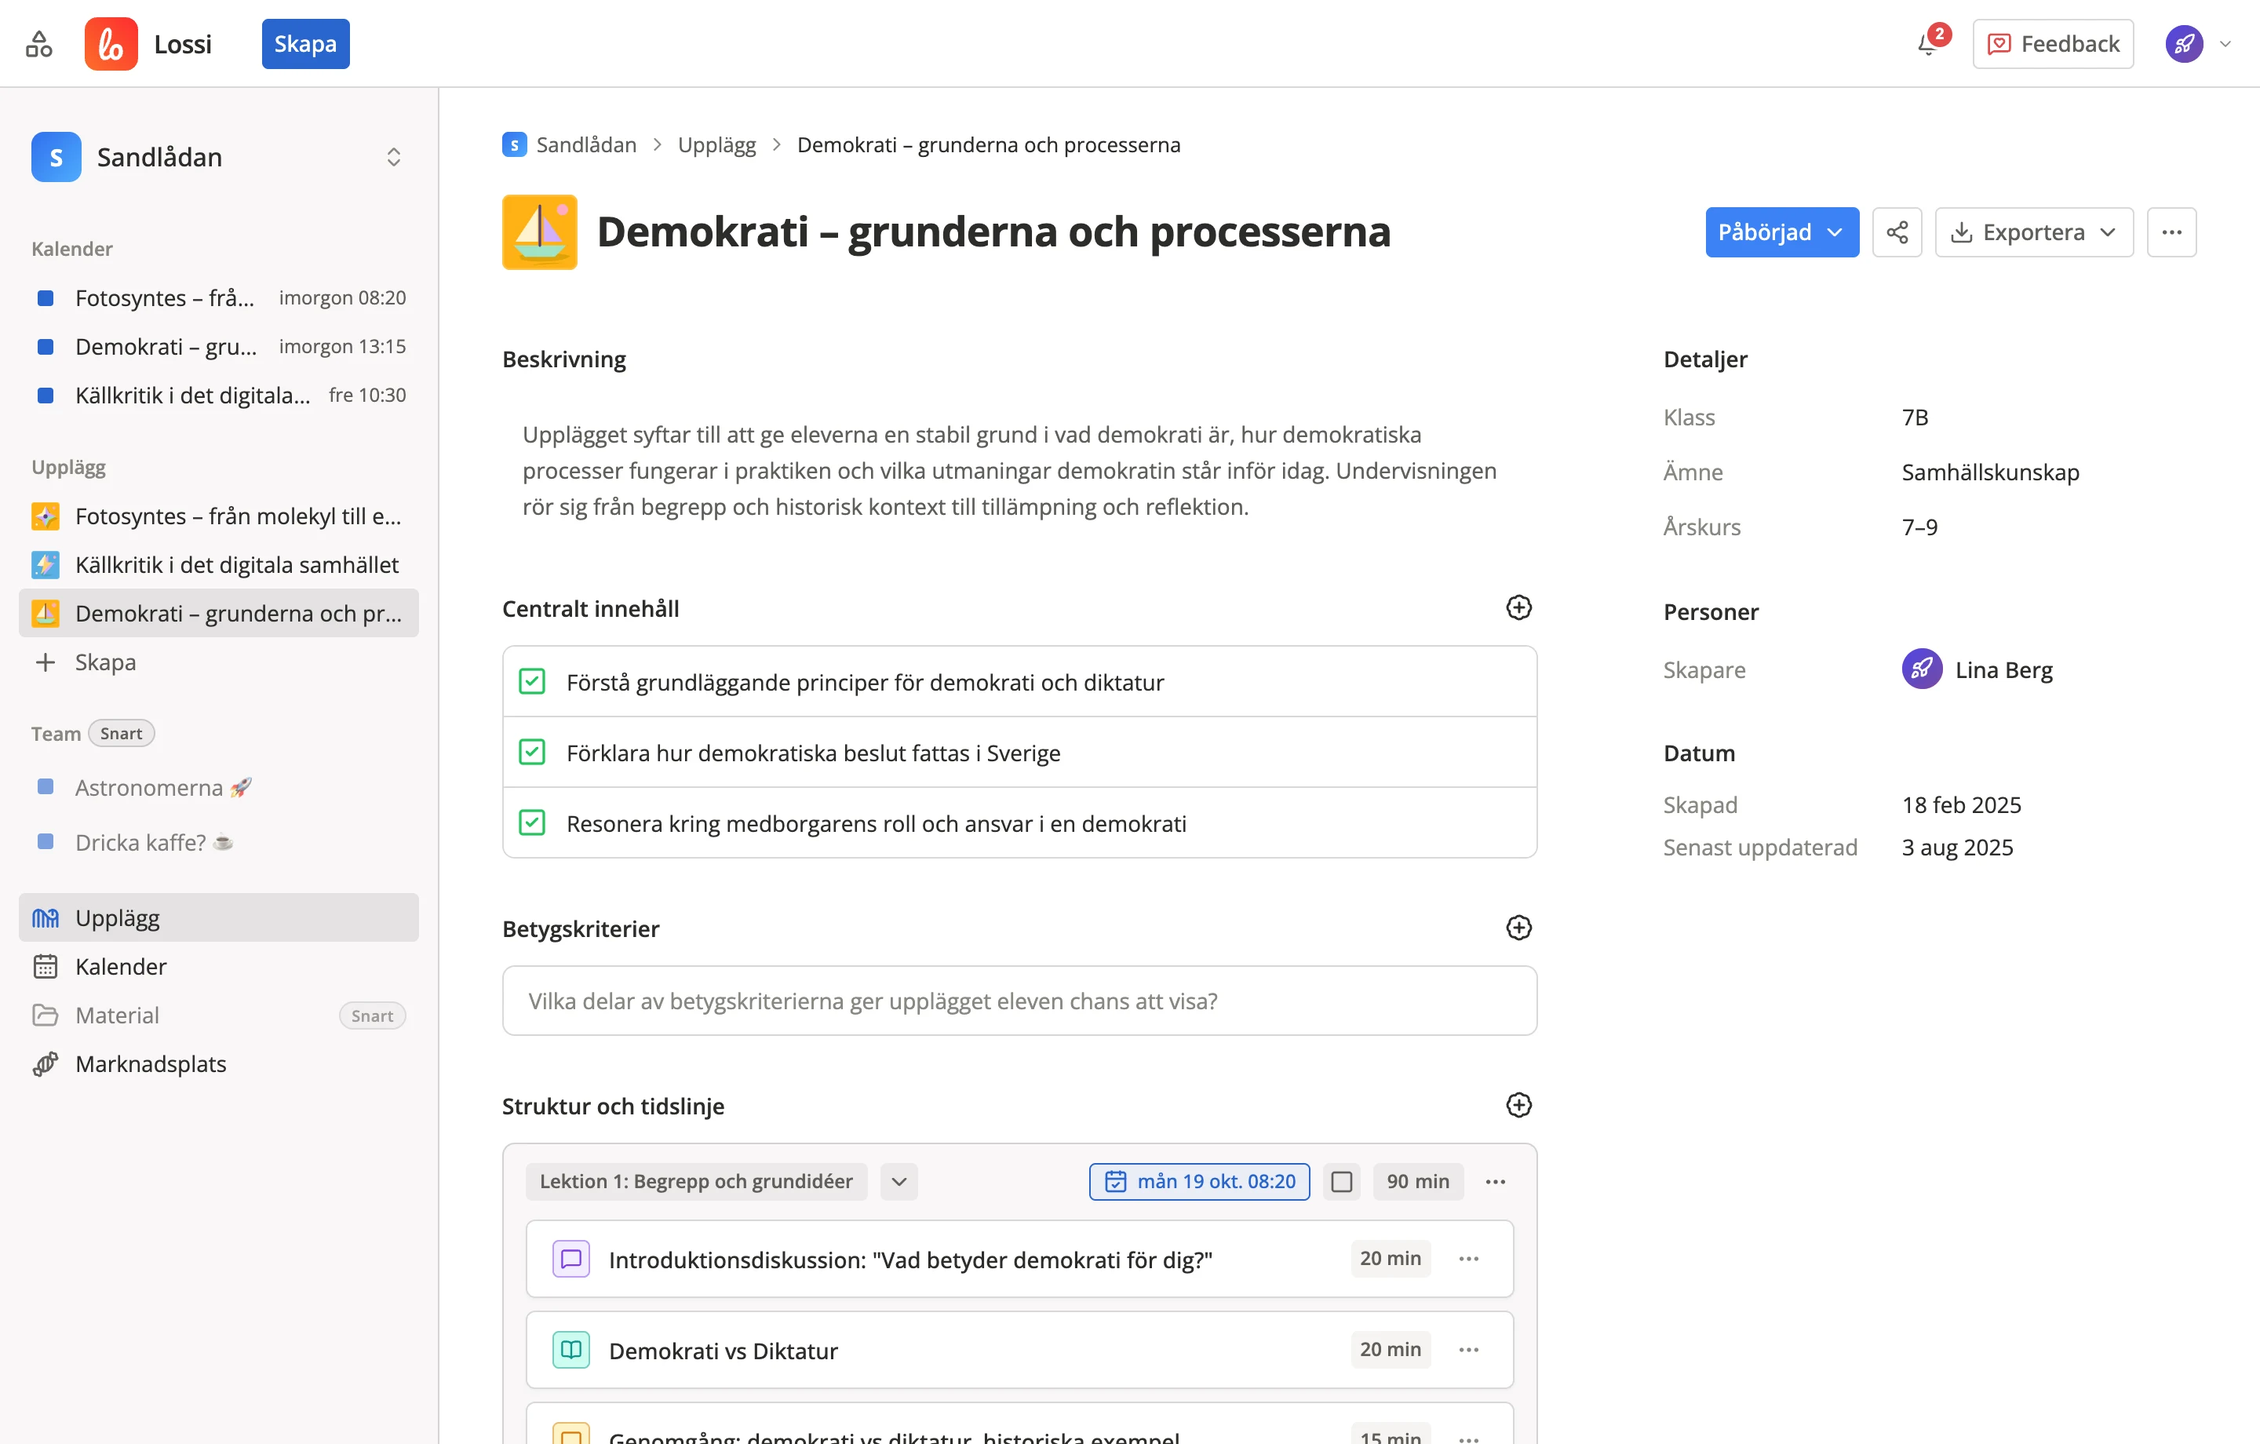
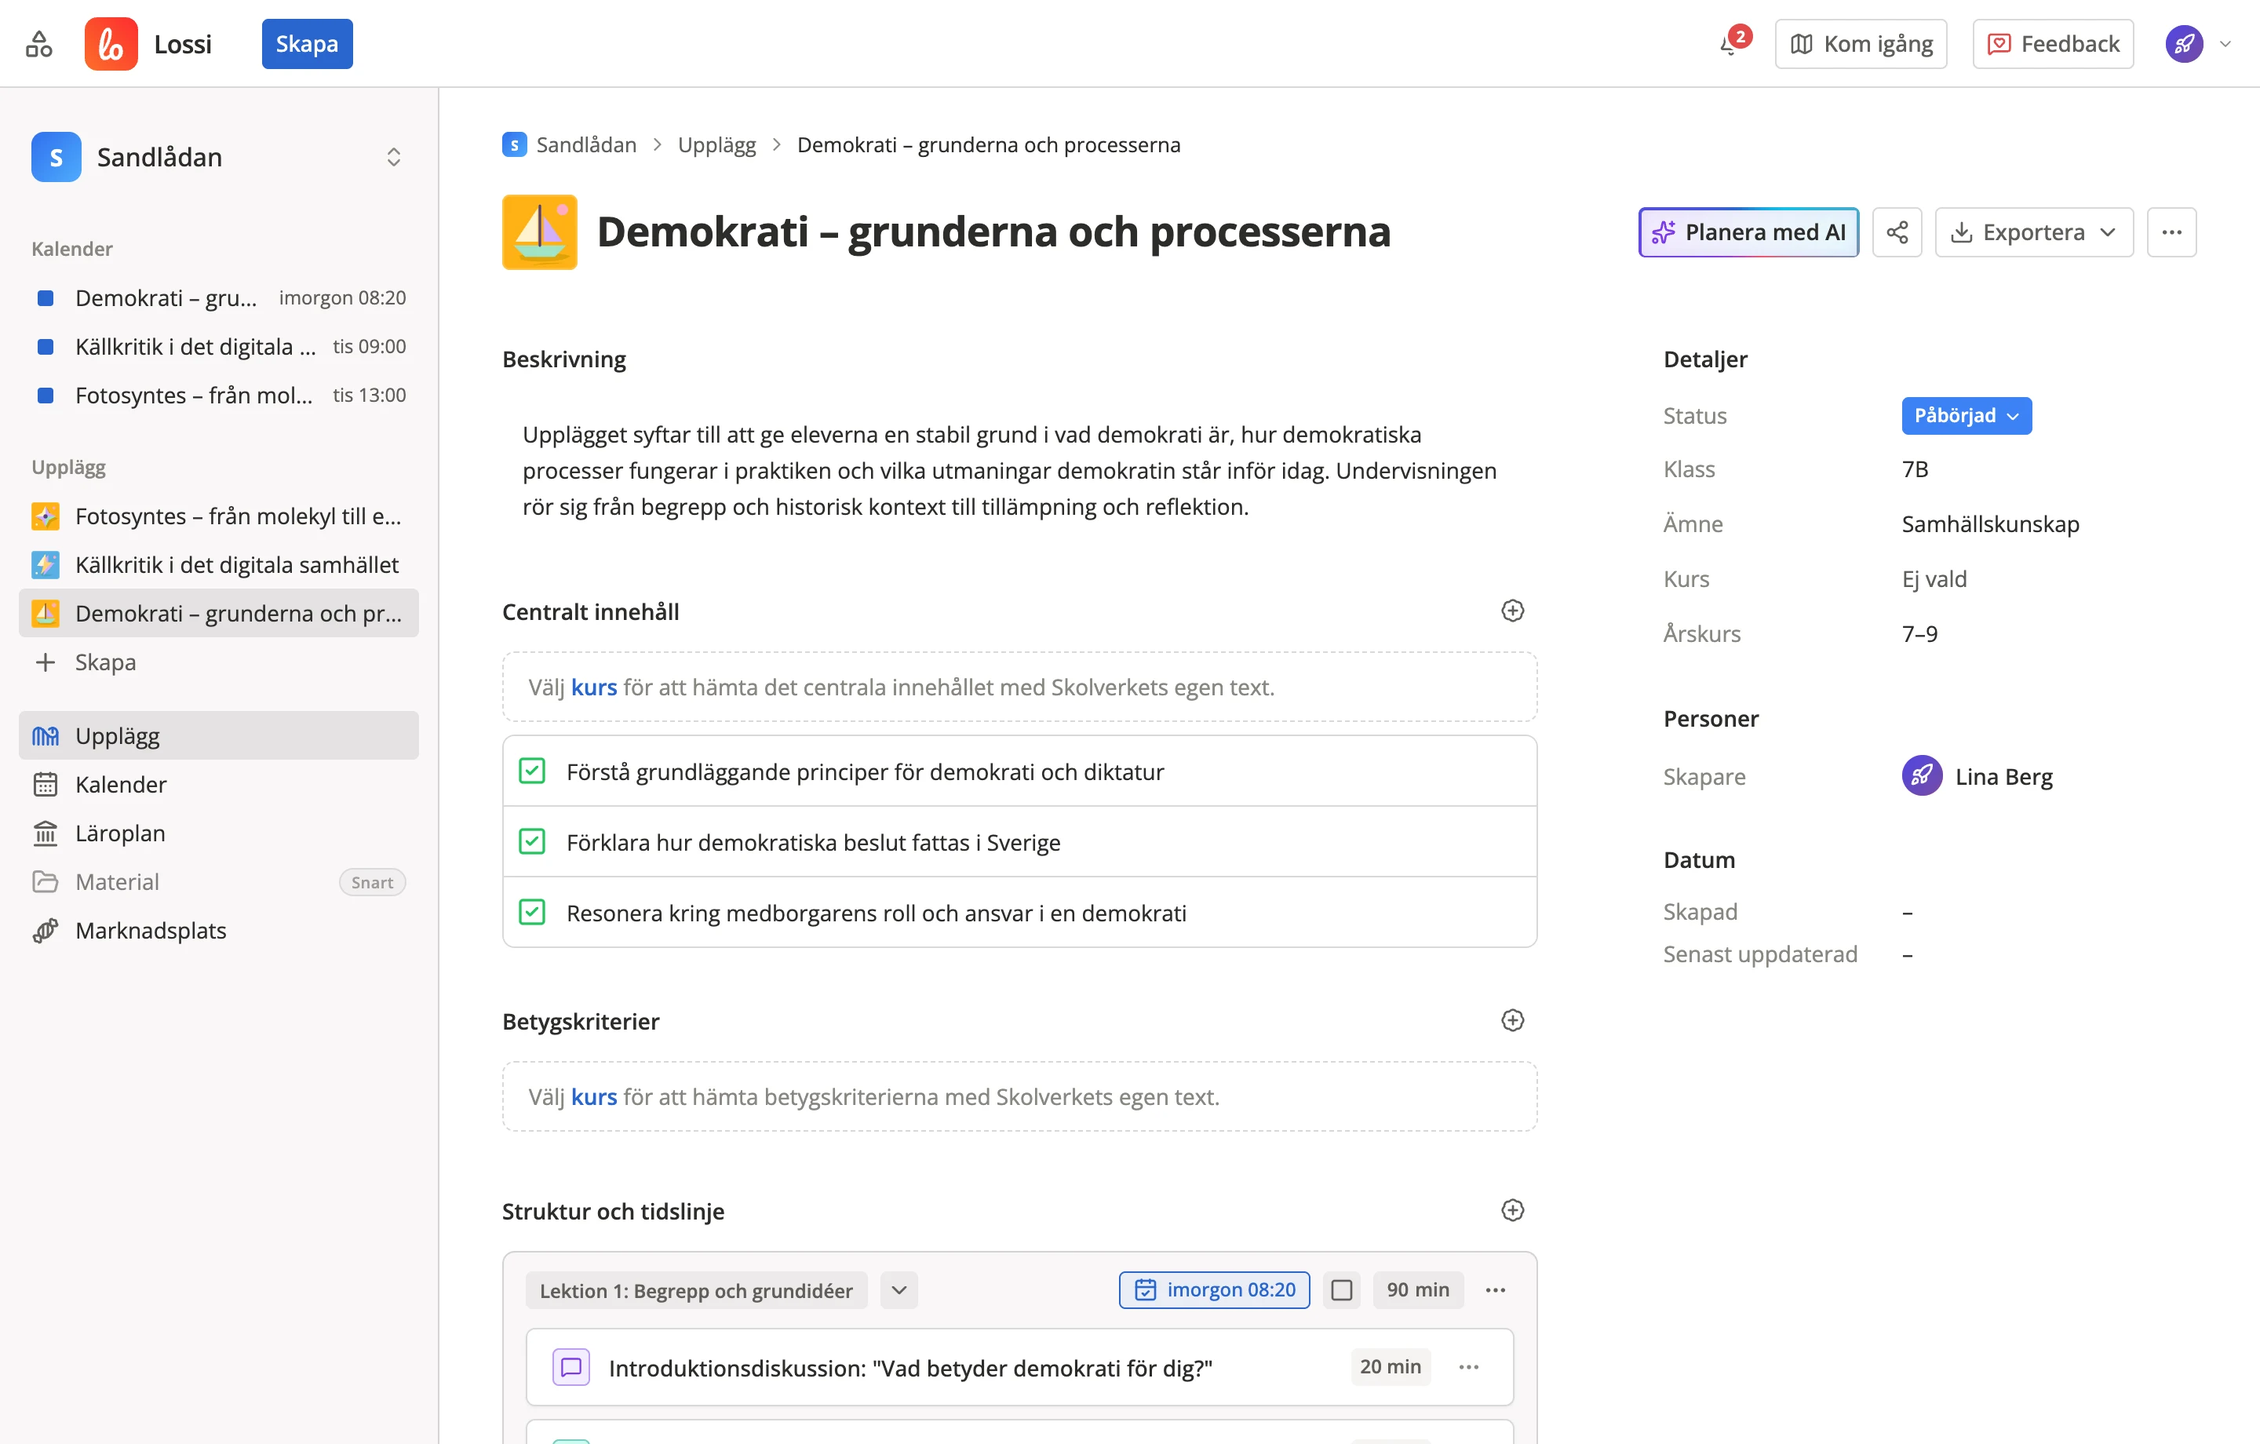
Planera med AI in the plan header, Status moved to Detaljer
The plan header gets a Planera med AI button with the same animated
rainbow frame as an edited goal row; it replaces Fyll i med AI in the
more menu. The prompt makes the AI a sounding board that starts from
what the teacher has written. Status moves to Detaljer. The first plan
tip points at the new button, and landing screenshots skip the tips.

diff --git a/ai-import.js b/ai-import.js
@@ -73,7 +73,7 @@ const LOSSI_AI_PROMPT = `Du hjälper en lärare att planera ett pedagogiskt uppl
 
 Bekräfta kort att du förstått och fråga sedan läraren vad upplägget ska handla om.`;
 
-// Fyll i med AI: samma regler, plus upplägget som det ser ut nu (med lektionernas
+// Planera med AI: samma regler, plus upplägget som det ser ut nu (med lektionernas
 // koder). Har upplägget en kurs får AI:n Skolverkets punkter med koder och svarar
 // med koderna (buildCurriculumListing).
 function buildFillPrompt(current, curriculumListing = '') {
@@ -86,7 +86,9 @@ function buildFillPrompt(current, curriculumListing = '') {
   }
   return prompt
     .replace('Du hjälper en lärare att planera ett pedagogiskt upplägg som ska läggas in i Lossi',
-      'Du hjälper en lärare att arbeta vidare på ett pedagogiskt upplägg som redan finns i Lossi')
+      'Du är lärarens bollplank och hjälper hen att arbeta vidare på ett pedagogiskt upplägg som redan finns i Lossi')
+    .replace(/1\. Prata först med läraren om upplägget:[^\n]*\n/,
+      '1. Utgå från upplägget nedan – det är lärarens eget arbete. Fråga inte om sådant som redan står där, och ändra inte det läraren redan bestämt utan att fråga. Ge förslag, ställ frågor och justera tills läraren är nöjd. Hitta inte på källor, citat eller statistik.\n')
     .replace('Bekräfta kort att du förstått och fråga sedan läraren vad upplägget ska handla om.', `## Upplägget som det ser ut nu
 Varje lektion har en "kod". Det här gäller när du ger Lossi-inmatningen:
 - Behåll koden på de lektioner du ändrar, så att Lossi hittar dem (de kan redan ligga i lärarens kalender).
@@ -99,7 +101,7 @@ Varje lektion har en "kod". Det här gäller när du ger Lossi-inmatningen:
 ${JSON.stringify(current, null, 2)}
 \`\`\`
 ${curriculumListing}
-Bekräfta kort att du förstått och fråga sedan läraren vad hen vill göra med upplägget.`);
+Börja med att kort sammanfatta upplägget som det ser ut nu (2–4 meningar). Peka sedan på det som verkar saknas eller kan utvecklas, till exempel lektioner utan aktiviteter, aktiviteter som inte ryms i lektionstiden, en tom beskrivning eller inget centralt innehåll, och ge 2–3 konkreta förslag på hur ni kan fortsätta. Fråga till sist läraren vad hen vill arbeta vidare med. Ge ingen Lossi-inmatning förrän läraren ber om den.`);
 }
 
 // Skolverkets punkter för uppläggets kurs, med koder, till Fyll i-instruktionen
@@ -398,12 +400,12 @@ function buildAiPlanModalHTML() {
 
 let aiParsed = null;
 let aiPromptText = LOSSI_AI_PROMPT;
-// Fyll i med AI (upplag.html): { current() → upplägget i Lossi-formatet, previewHTML(result), apply(plan) }
+// Planera med AI (upplag.html): { current() → upplägget i Lossi-formatet, previewHTML(result), apply(plan), curriculum() }
 let aiFill = null;
 
 const AI_HELP = {
   create: 'Kopiera instruktionen och klistra in den i Claude, ChatGPT eller den AI du brukar använda. Prata sedan med din AI om upplägget, så länge du vill. När ni är nöjda ber du om <strong>Lossi-inmatningen</strong>.',
-  fill: 'Instruktionen innehåller upplägget som det ser ut nu, och Skolverkets punkter om upplägget har en kurs. Klistra in den i din AI och be den t.ex. fylla lektionerna med aktiviteter eller välja centralt innehåll. När ni är nöjda ber du om <strong>Lossi-inmatningen</strong>.',
+  fill: 'Instruktionen innehåller allt du har skrivit i upplägget, och Skolverkets punkter om upplägget har en kurs. Klistra in den i Claude, ChatGPT eller den AI du brukar använda: den sammanfattar upplägget, föreslår hur du kan fortsätta och blir ditt bollplank. När ni är nöjda ber du om <strong>Lossi-inmatningen</strong> och klistrar in den här.',
 };
 
 function openAiPlanModal() {
@@ -426,7 +428,7 @@ function showAiModal(mode, prompt) {
   }
   aiPromptText = prompt;
   document.getElementById('aiPrompt').value = prompt;
-  document.getElementById('aiModalTitle').textContent = mode === 'fill' ? 'Fyll i med AI' : 'Skapa med AI';
+  document.getElementById('aiModalTitle').textContent = mode === 'fill' ? 'Planera med AI' : 'Skapa med AI';
   document.getElementById('aiHelp').innerHTML = AI_HELP[mode];
   toggleAiPrompt(false);
   document.getElementById('createPlanModal')?.classList.remove('open');

diff --git a/upplag.html b/upplag.html
@@ -95,17 +95,11 @@
     </div>
 
     <div class="plan-actions">
-      <div class="popover-wrap" onclick="event.stopPropagation()">
-        <button class="status-btn status-started" id="statusBtn" onclick="toggleAppPopover(this)">
-          <span id="statusLabel">Påbörjad</span>
-          <i data-lucide="chevron-down"></i>
-        </button>
-        <div class="menu-popover" id="statusMenu">
-          <button class="menu-popover-item" onclick="setStatus('started', 'Påbörjad')">Påbörjad</button>
-          <button class="menu-popover-item" onclick="setStatus('finished', 'Avslutad')">Avslutad</button>
-          <button class="menu-popover-item" onclick="setStatus('upcoming', 'Kommande')">Kommande</button>
-        </div>
-      </div>
+      <!-- Planera med AI: läraren fortsätter i sin egen AI utifrån upplägget som det ser ut nu (ai-import.js) -->
+      <button type="button" class="btn ai-continue-btn edit-only" id="aiContinueBtn" onclick="openAiFillModal(AI_FILL)">
+        <i data-lucide="sparkles"></i>
+        Planera med AI
+      </button>
       <div class="popover-wrap" onclick="event.stopPropagation()">
         <button class="btn btn-outline btn-icon" onclick="toggleAppPopover(this)" title="Dela">
           <i data-lucide="share-2"></i>
@@ -148,10 +142,6 @@
           <i data-lucide="ellipsis"></i>
         </button>
         <div class="menu-popover" id="planMoreMenu">
-          <button class="menu-popover-item edit-only" onclick="closeAllMenuPopovers(); openAiFillModal(AI_FILL)">
-            <i data-lucide="sparkles"></i>
-            Fyll i med AI
-          </button>
           <button class="menu-popover-item" onclick="duplicatePlan()">
             <i data-lucide="copy"></i>
             <span class="edit-only">Duplicera upplägg</span>
@@ -850,6 +840,20 @@
       </div>
       <div class="section-body">
         <div class="detail-fields">
+          <div class="read-field">
+            <span class="read-field-label">Status</span>
+            <div class="popover-wrap" onclick="event.stopPropagation()">
+              <button class="status-btn status-btn-sm status-started" id="statusBtn" onclick="toggleAppPopover(this)">
+                <span id="statusLabel">Påbörjad</span>
+                <i data-lucide="chevron-down"></i>
+              </button>
+              <div class="menu-popover" id="statusMenu">
+                <button class="menu-popover-item" onclick="setStatus('started', 'Påbörjad')">Påbörjad</button>
+                <button class="menu-popover-item" onclick="setStatus('finished', 'Avslutad')">Avslutad</button>
+                <button class="menu-popover-item" onclick="setStatus('upcoming', 'Kommande')">Kommande</button>
+              </div>
+            </div>
+          </div>
           <div class="read-field">
             <span class="read-field-label">Klass</span>
             <div class="popover-wrap" onclick="event.stopPropagation()">
@@ -3310,7 +3314,7 @@
     uploadFiles(e.dataTransfer.files, dropActivityId(drop));
   });
 
-  // ── Fyll i med AI (ai-import.js) ──
+  // ── Planera med AI (ai-import.js; hette tidigare Fyll i med AI) ──
   // Läraren ger sin AI upplägget som det ser ut nu (lektionerna med sina
   // koder = data-lesson-id) och klistrar in svaret. Lektioner med känd kod
   // ändras på plats (kalenderkopplingen följer med), lektioner utan kod läggs

diff --git a/styles.css b/styles.css
@@ -1639,6 +1639,58 @@ body.is-personal-project .aside-group[data-aside-group="teams"] { display: none;
 .status-finished { background: #16a34a; }
 .status-upcoming { background: #6b7280; }
 
+/* Status under Detaljer: samma färger som förut, i taggstorlek */
+.status-btn.status-btn-sm { height: 24px; padding: 0 6px 0 8px; gap: 4px; font-size: var(--font-size-sm); font-weight: 600; }
+.status-btn.status-btn-sm svg { width: 13px; height: 13px; }
+
+/* Planera med AI i uppläggshuvudet: samma "magiska" uttryck som en rad i
+   Centralt innehåll när den redigeras – regnbågsram som sakta snurrar,
+   svag ton i bakgrunden och en ljusglimt när man pekar på knappen. */
+.ai-continue-btn {
+  position: relative;
+  isolation: isolate;
+  overflow: hidden;
+  border: none;
+  color: var(--color-text-primary);
+  background: linear-gradient(90deg, rgba(124, 58, 237, 0.10), rgba(41, 102, 206, 0.08) 50%, rgba(18, 194, 233, 0.10));
+  box-shadow: inset 0 0 12px rgba(124, 58, 237, 0.14);
+  font-weight: 600;
+}
+.ai-continue-btn svg { color: #7c3aed; }
+.ai-continue-btn::before {
+  content: '';
+  position: absolute;
+  inset: 0;
+  z-index: -1;
+  padding: 1.5px;
+  border-radius: inherit;
+  background: conic-gradient(from var(--magic-angle), #7c3aed, #2966ce, #12c2e9, #f5576c, #7c3aed);
+  -webkit-mask: linear-gradient(#000 0 0) content-box, linear-gradient(#000 0 0);
+  -webkit-mask-composite: xor;
+  mask: linear-gradient(#000 0 0) content-box exclude, linear-gradient(#000 0 0);
+  animation: magic-spin 4s linear infinite;
+  pointer-events: none;
+}
+.ai-continue-btn::after {
+  content: '';
+  position: absolute;
+  inset: 0;
+  background: linear-gradient(100deg, transparent 30%, rgba(255, 255, 255, 0.55) 50%, transparent 70%);
+  transform: translateX(-100%);
+  pointer-events: none;
+}
+.ai-continue-btn:hover {
+  background: linear-gradient(90deg, rgba(124, 58, 237, 0.16), rgba(41, 102, 206, 0.12) 50%, rgba(18, 194, 233, 0.16));
+}
+.ai-continue-btn:hover::after { animation: magic-shimmer 0.9s ease-out 1 forwards; }
+.ai-continue-btn:focus-visible { outline: 2px solid var(--color-primary); outline-offset: 2px; }
+[data-theme="dark"] .ai-continue-btn::after { background: linear-gradient(100deg, transparent 30%, rgba(255, 255, 255, 0.12) 50%, transparent 70%); }
+[data-theme="dark"] .ai-continue-btn svg { color: #a78bfa; }
+@media (prefers-reduced-motion: reduce) {
+  .ai-continue-btn::before { animation: none; }
+  .ai-continue-btn:hover::after { animation: none; }
+}
+
 /* Share popover: email input + send */
 .share-popover-body {
   width: 260px;

diff --git a/starter-plans.js b/starter-plans.js
@@ -56,7 +56,7 @@ const STARTER_PLANS = [
         minutes: 30,
         activities: [
           { type: 'Genomgång', title: 'Skapa med AI', minutes: 10, desc: 'Välj Skapa → Skapa med AI. Lossi ger dig en färdig fråga att klistra in i din egen AI, till exempel ChatGPT eller Copilot. Klistra in svaret, så blir det ett upplägg med lektioner och aktiviteter.' },
-          { type: 'Aktivitet', title: 'Fyll i ett upplägg du redan har', minutes: 10, desc: 'I ett befintligt upplägg väljer du ⋯ → Fyll i med AI för att få förslag på det som saknas.' },
+          { type: 'Aktivitet', title: 'Planera vidare på ett upplägg du redan har', minutes: 10, desc: 'I ett upplägg klickar du på Planera med AI. Din AI får allt du skrivit, föreslår hur du kan fortsätta och blir ditt bollplank.' },
           { type: 'Exit ticket', title: 'Granska alltid förslaget', minutes: 10, desc: 'AI kan ha fel. Läs igenom och justera innan du använder upplägget med eleverna.' },
         ],
       },

diff --git a/tour.js b/tour.js
@@ -84,6 +84,11 @@ function continueTourInPlan(row) {
 // Tips första gången man öppnar ett upplägg man får redigera (upplag.html)
 const PLAN_TIPS = [
   {
+    target: ['#aiContinueBtn'], side: 'bottom', icon: 'sparkles',
+    title: 'Planera med AI',
+    text: 'Ta med upplägget till din egen AI. Den får allt du skrivit, föreslår hur du kan fortsätta och blir ditt bollplank. Svaret klistrar du in här.',
+  },
+  {
     target: ['#structureList .lesson-group > .week-row'], side: 'bottom', icon: 'list-ordered',
     title: 'Lektioner',
     text: 'Upplägget består av lektioner. Klicka på namnet för att byta det, och dra i raden för att flytta lektionen.',

diff --git a/docs/handoff.md b/docs/handoff.md
@@ -56,6 +56,7 @@ Efter (3): skapa en kod på **Admin → Koder** för att testa onboardingen live
 - **Klasser tillhör projektet:** `projects.classes` (+ RPC `add_project_class`/`remove_project_class`). Detaljer › Klass visar bara projektets lista (när den finns), så en borttagen klass kommer inte tillbaka via gamla upplägg.
 - **Årskurs** är välj-eller-skriv som Ämne (förslag F–9, egna i profilen, `normalizeGrade`/`gradeLabel` i theme.js).
 - **Kalender:** Mina / Alla i projektet, klassfilter, Prov/Inlämning-etiketter, kollegors lektioner grå och skrivskyddade, varning när en klass har ≥ 3 prov + inlämningar samma vecka (`LOAD_WARNING_AT` i calendar.html; räknar alla lärares inlagda lektioner hela veckan; klassen kommer från uppläggets Klass). Lektioner markeras som Prov/Inlämning i lektionens ⋯-meny (`data-assessment` på `.lesson-group`, `LESSON_ASSESSMENTS` i schedule.js). Kommande i sidopanelen/översikten = bara egna.
+- **Planera med AI** (2026-10-25, hette Fyll i med AI och låg i ⋯-menyn): knapp först i uppläggshuvudet med "magisk" ram (`.ai-continue-btn`). Instruktionen gör AI:n till bollplank: utgår från allt i upplägget, sammanfattar, pekar på luckor och ger 2–3 förslag innan den frågar läraren (`buildFillPrompt` i ai-import.js). **Status** ligger nu under Detaljer (`.status-btn-sm`). Första tipset i upplägget visar knappen.
 - **Uppläggssidan:** lektioner/aktiviteter, dra och släpp, fäll ihop, export Word/PowerPoint, brödsmulor, "Hämtar upplägget…" medan det laddas. **Aktivitetspanelen** svävar (12 px luft, 16 px hörn, skugga, ingen blur) med Ta bort / Avbryt / Spara i en fast rad i botten. Centralt innehåll/Betygskriterier: Enter sparar raden, tom rad tas bort, "magisk" ram när raden redigeras. Sektionsrubriker som sidopanelens grupper (rubriken är klickytan, pil vid hovring).
 - **Filer:** bilder som miniatyr (stor i aktivitetspanelen); klick öppnar förhandsvisning i Lossi (bild, PDF, text; Office → Ladda ner); PowerPoint-exporten lägger in aktivitetens bilder (högst 4).
 - **Marknadsplats:** `marknadsplats.html` är en teaser (knappen öppnar feedback).
